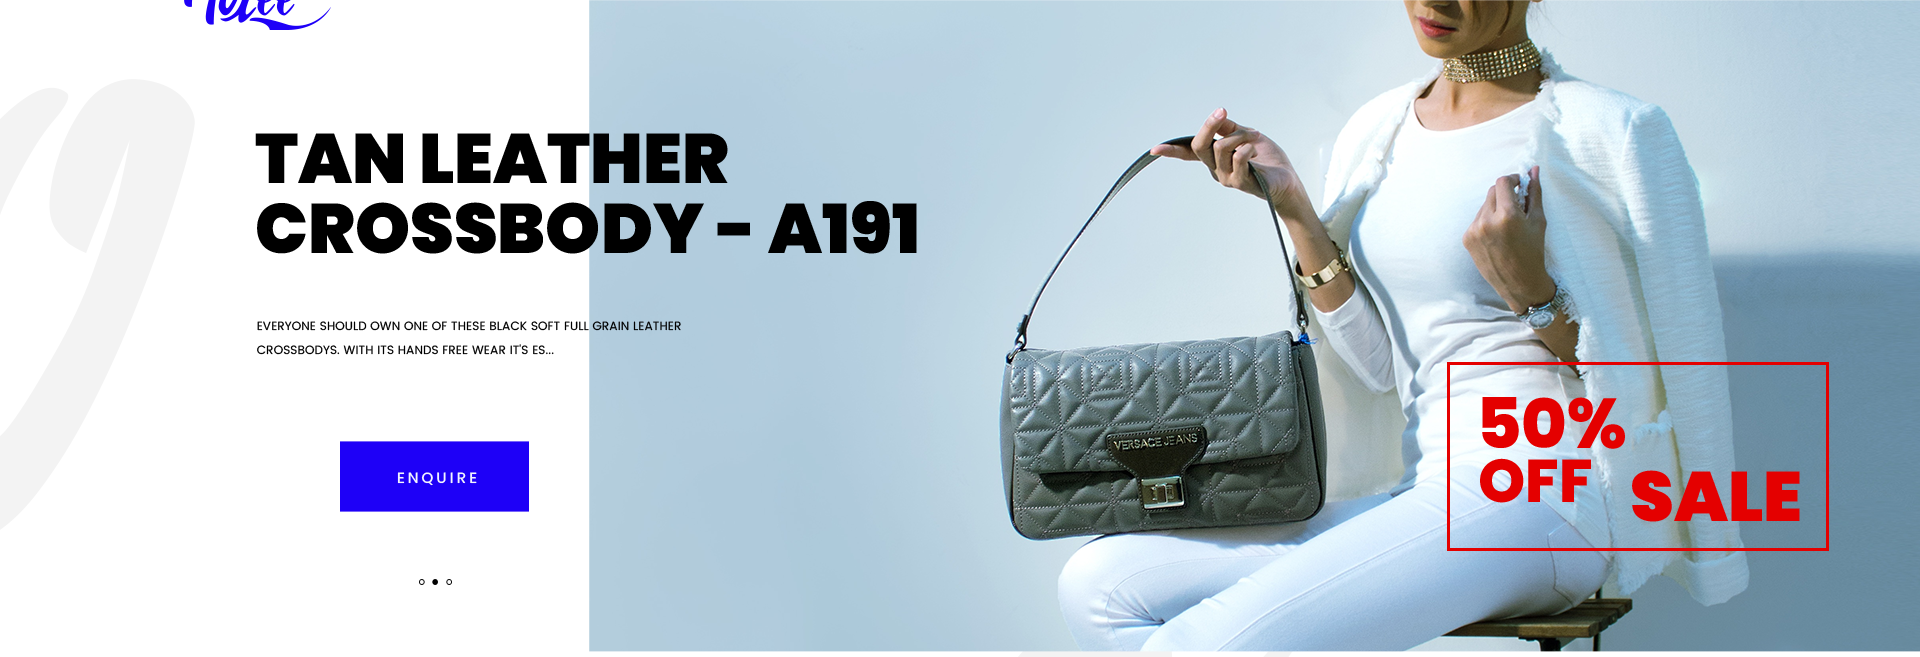
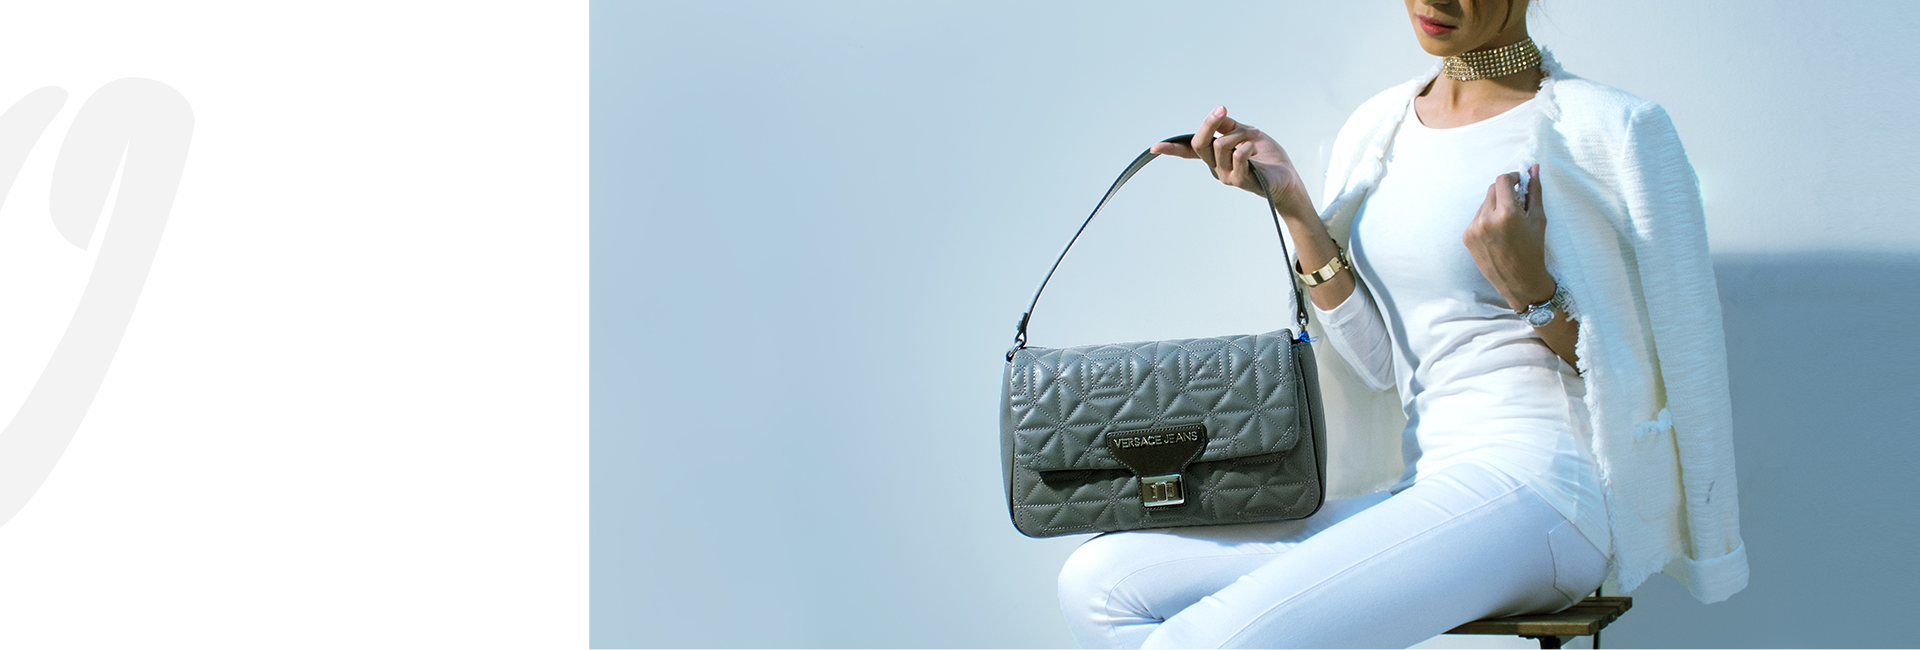
slider and product update

diff --git a/app/scss/layout/_slider.scss b/app/scss/layout/_slider.scss
@@ -65,7 +65,12 @@ a:hover, a:focus, a:active{
                     border-color: #1e00f7;
                     border-radius: 0;
                     margin-left: 13%;
-                    margin-top: 39px;                    
+                    margin-top: 39px;
+                    transition: all 0.5s;
+                    &:hover, &:active, &:focus{
+                        background: red;
+                        border-color: red;
+                    }                    
                 }
             }
         }
@@ -94,42 +99,70 @@ a:hover, a:focus, a:active{
                 }
             }
         }
+        @media screen and (max-width: 1200px) {
+            .carousel-caption .banner-contet {
+                h3{
+                    font-size: 35px;
+                    line-height: 36px;
+                }
+                a.btn{
+                    margin-top: 25px;
+                }
+            }
+        }
+        @media screen and (max-width: 970px) {
+            .carousel-caption {
+                .banner-contet {
+                    left: 5%;
+                    top: 30px;
+                    width: 400px;
+                    h3{
+                        font-size: 20px;
+                        line-height: 21px;
+                    }
+                    a.btn{
+                        margin: 10px 0 0;
+                        padding: 8px 10px;
+                        width: 80px;
+                        font-size: 10px;
+                    }
+                }
+            }
+            .banner-sale{
+                font-size: 22px;
+                line-height: 19px;
+                padding: 5px 5px 12px;
+                p.off-text{
+                    font-size: 20px;
+                    span{
+                        font-size: 21px;
+                        margin: 0 0 0 5px;
+                        top: 7px;
+                    }
+                }
+            }
+        }
     }
     .carousel-control-prev, .carousel-control-next{
         display: none;
     }
     .carousel-indicators {
-        position: absolute;
-        right: 0;
-        bottom: 10px;
-        left: 230px;
-        z-index: 15;
-        display: flex;
-        justify-content: center;
-        padding-left: 0;
-        margin-right: 15%;
-        margin-left: 15%;
-        list-style: none;
-        width: 150px;
-        margin: 0;
-        bottom: 49px;
-    }
-    .carousel-indicators li {
-        position: relative;
-        flex: 0 1 auto;
-        width: 6px;
-        height: 6px;
-        margin-right: 3px;
-        margin-left: 3px;
-        text-indent: -999px;
-        background-color: #fff;
-        border: 1px solid #000;
-        border-radius: 50%;
-        cursor: pointer;
-
-        &.active {
-            background-color: #000;
-            border-color: #000;
+        // left: 230px;
+        // width: 150px;
+        // margin: 0;
+        // bottom: 49px;
+    
+        li {
+            width: 6px;
+            height: 6px;
+            background-color: #fff;
+            border: 1px solid #000;
+            border-radius: 50%;
+            cursor: pointer;
+            &.active {
+                background-color: #000;
+                border-color: #000;
+            }
         }
     }
 }
@@ -139,7 +172,7 @@ a:hover, a:focus, a:active{
 
 // product start
 .product-wrapper{
-    padding: 50px 0;
+    padding: 100px 0 50px 0;
     .all-product-btn.btn{
         font-size: 13px;
         text-transform: uppercase;

diff --git a/app/css/app.css b/app/css/app.css
@@ -8328,7 +8328,11 @@ a:hover, a:focus, a:active {
         border-color: #1e00f7;
         border-radius: 0;
         margin-left: 13%;
-        margin-top: 39px; }
+        margin-top: 39px;
+        transition: all 0.5s; }
+        .banner .carousel-item .carousel-caption .banner-contet a.btn:hover, .banner .carousel-item .carousel-caption .banner-contet a.btn:active, .banner .carousel-item .carousel-caption .banner-contet a.btn:focus {
+          background: red;
+          border-color: red; }
   .banner .carousel-item .banner-sale {
     color: red;
     border: 2px solid red;
@@ -8351,34 +8355,42 @@ a:hover, a:focus, a:active {
         margin: 0 0 0 21px;
         position: relative;
         top: 17px; }
+  @media screen and (max-width: 1200px) {
+    .banner .carousel-item .carousel-caption .banner-contet h3 {
+      font-size: 35px;
+      line-height: 36px; }
+    .banner .carousel-item .carousel-caption .banner-contet a.btn {
+      margin-top: 25px; } }
+  @media screen and (max-width: 970px) {
+    .banner .carousel-item .carousel-caption .banner-contet {
+      left: 5%;
+      top: 30px;
+      width: 400px; }
+      .banner .carousel-item .carousel-caption .banner-contet h3 {
+        font-size: 20px;
+        line-height: 21px; }
+      .banner .carousel-item .carousel-caption .banner-contet a.btn {
+        margin: 10px 0 0;
+        padding: 8px 10px;
+        width: 80px;
+        font-size: 10px; }
+    .banner .carousel-item .banner-sale {
+      font-size: 22px;
+      line-height: 19px;
+      padding: 5px 5px 12px; }
+      .banner .carousel-item .banner-sale p.off-text {
+        font-size: 20px; }
+        .banner .carousel-item .banner-sale p.off-text span {
+          font-size: 21px;
+          margin: 0 0 0 5px;
+          top: 7px; } }
 
 .banner .carousel-control-prev, .banner .carousel-control-next {
   display: none; }
 
-.banner .carousel-indicators {
-  position: absolute;
-  right: 0;
-  bottom: 10px;
-  left: 230px;
-  z-index: 15;
-  display: flex;
-  justify-content: center;
-  padding-left: 0;
-  margin-right: 15%;
-  margin-left: 15%;
-  list-style: none;
-  width: 150px;
-  margin: 0;
-  bottom: 49px; }
-
 .banner .carousel-indicators li {
-  position: relative;
-  flex: 0 1 auto;
   width: 6px;
   height: 6px;
-  margin-right: 3px;
-  margin-left: 3px;
-  text-indent: -999px;
   background-color: #fff;
   border: 1px solid #000;
   border-radius: 50%;
@@ -8388,7 +8400,7 @@ a:hover, a:focus, a:active {
     border-color: #000; }
 
 .product-wrapper {
-  padding: 50px 0; }
+  padding: 100px 0 50px 0; }
   .product-wrapper .all-product-btn.btn {
     font-size: 13px;
     text-transform: uppercase;

diff --git a/app/index.html b/app/index.html
@@ -76,7 +76,7 @@
           <div class="carousel-inner">
             <div class="carousel-item active">
               <img class="d-block w-70 pull-right" src="images/banner.png" alt="First slide">
-              <div class="carousel-caption d-none d-md-block">
+              <div class="carousel-caption d-none d-sm-block">
                 <div class="banner-contet">
                   <h3>BLACK LEATHER CROSSBODY - A128</h3>
                   <p>Lorem ipsum dolor, sit amet consectetur adipisicing elit. Tempore vitae laudantium illo facilis.</p>
@@ -90,16 +90,30 @@
             </div>
             <div class="carousel-item">
               <img class="d-block w-70 pull-right" src="images/banner.png" alt="Second slide">
-              <div class="carousel-caption d-none d-md-block">
-                <h3>BLACK LEATHER CROSSBODY - A128</h3>
-                <p>Lorem ipsum dolor, sit amet consectetur adipisicing elit. Tempore vitae laudantium illo facilis.</p>
+              <div class="carousel-caption d-none d-sm-block">
+                <div class="banner-contet">
+                  <h3>BLACK LEATHER CROSSBODY - A128</h3>
+                  <p>Lorem ipsum dolor, sit amet consectetur adipisicing elit. Tempore vitae laudantium illo facilis.</p>
+                  <a href="#" class="btn btn-primary text-uppercase">enquire</a>
+                </div>
+                <div class="banner-sale">
+                  <p>50%</p>
+                  <p class="off-text">off <span>sale</span></p>
+                </div>
               </div>
             </div>
             <div class="carousel-item">
               <img class="d-block w-70 pull-right" src="images/banner.png" alt="Third slide">
-              <div class="carousel-caption d-none d-md-block">
-                <h3>BLACK LEATHER CROSSBODY - A128</h3>
-                <p>Lorem ipsum dolor, sit amet consectetur adipisicing elit. Tempore vitae laudantium illo facilis.</p>
+              <div class="carousel-caption d-none d-sm-block">
+                <div class="banner-contet">
+                  <h3>BLACK LEATHER CROSSBODY - A128</h3>
+                  <p>Lorem ipsum dolor, sit amet consectetur adipisicing elit. Tempore vitae laudantium illo facilis.</p>
+                  <a href="#" class="btn btn-primary text-uppercase">enquire</a>
+                </div>
+                <div class="banner-sale">
+                  <p>50%</p>
+                  <p class="off-text">off <span>sale</span></p>
+                </div>
               </div>
             </div>
           </div>
